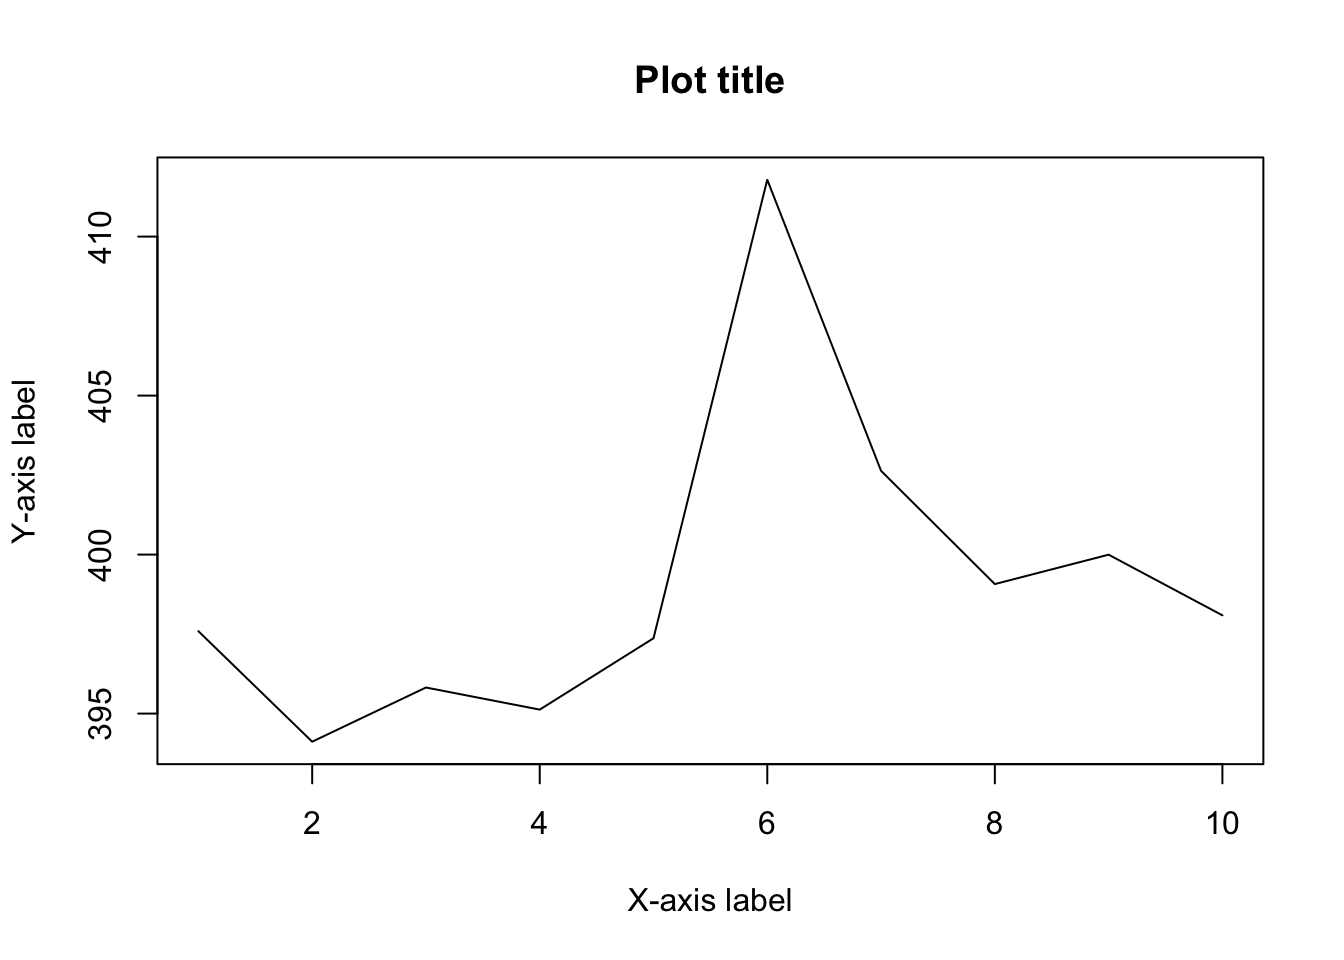
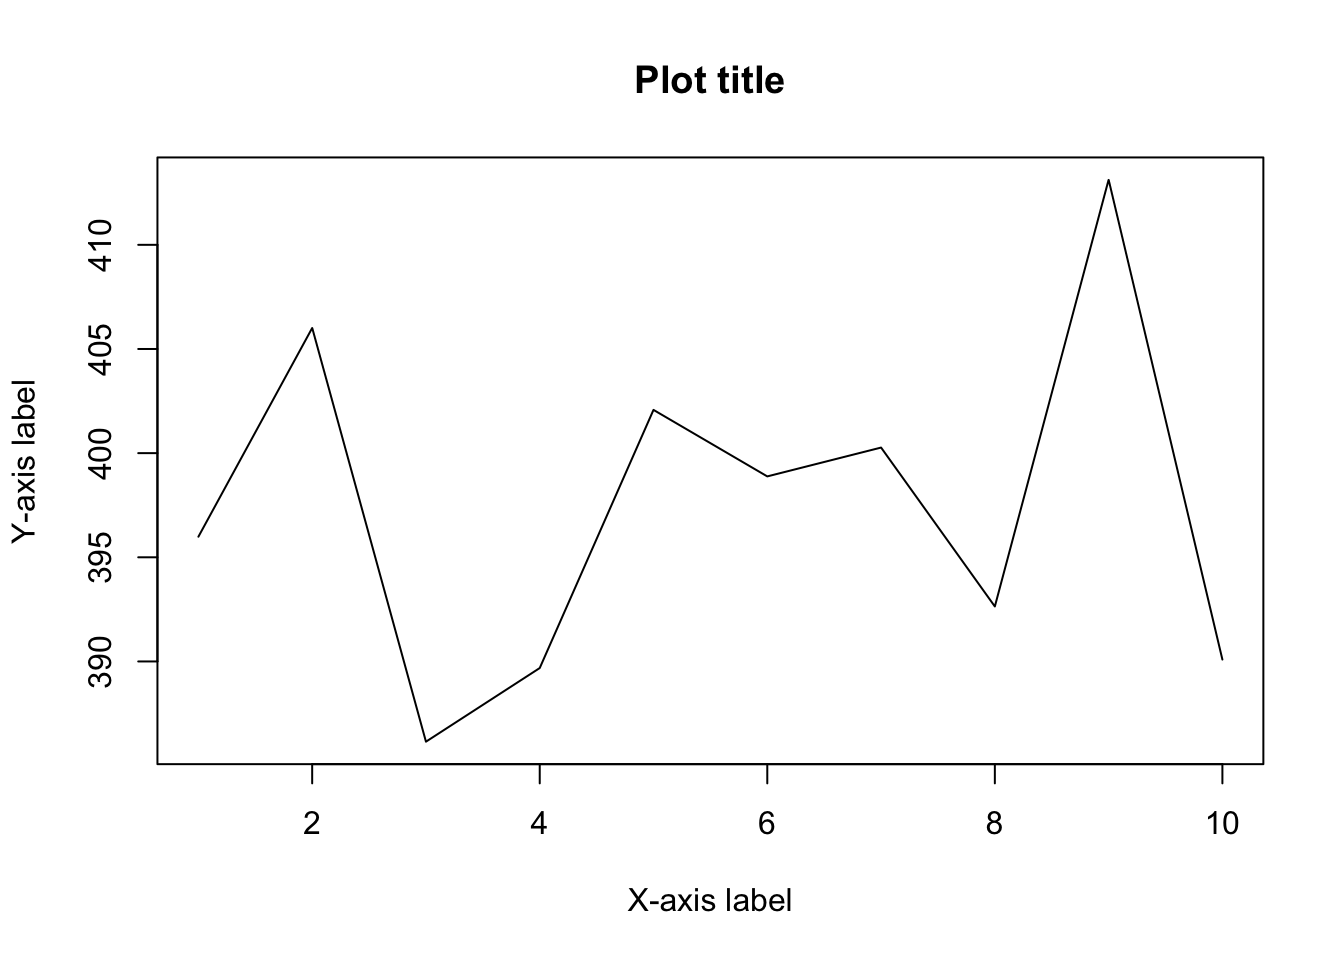
edit posts

diff --git a/content/blog/how-to-import-an-excel-file-in-rstudio.html b/content/blog/how-to-import-an-excel-file-in-rstudio.html
@@ -38,7 +38,7 @@ output:
 <div id="introduction" class="section level1">
 <h1>Introduction</h1>
 <p>As we have seen in this article on <a href="/blog/how-to-install-r-and-rstudio/">how to install R and RStudio</a>, R is useful for many kind of computational tasks and statistical analyses. However, it would not be so powerful and useful without the possibility to import datasets into R. As you will most likely use R with your own data, being able to import it into R is crucial for any user.</p>
-<p>In this article I present two different ways to import an Excel file; (i) via the text editor and (ii) in a more “user-friendly” way. I also discuss about the main advantages and inconvenients of both methods. Note that:</p>
+<p>In this article I present two different ways to import an Excel file; (i) via the text editor and (ii) in a more “user-friendly” way. I also discuss about the main advantages and disadvantages of both methods. Note that:</p>
 <ul>
 <li>How to import a dataset often depends on the format of the file (Excel, CSV, text, SPSS, Stata, etc.). I focus here only on Excel files as it is the most common type of file for a dataset</li>
 <li>There are several other ways to import an Excel file (probably even some I am not aware of), but I present the two most simple yet robust ways to import such files</li>
@@ -117,7 +117,7 @@ output:
 </div>
 <div id="import-your-dataset" class="section level1">
 <h1>Import your dataset</h1>
-<p>Now that you have tranformed your Excel file into a CSV file and you have specified the folder containing your data by setting the working directory, you are now ready to actually import your dataset. Remind that there are a two methods to import a file:</p>
+<p>Now that you have transformed your Excel file into a CSV file and you have specified the folder containing your data by setting the working directory, you are now ready to actually import your dataset. Remind that there are a two methods to import a file:</p>
 <ol style="list-style-type: decimal">
 <li>in a user-friendly way</li>
 <li>via the text editor (see also below why it is my preferred option)</li>
@@ -130,7 +130,7 @@ output:
 <p>There are a few things we need to look for in order to properly import our dataset:</p>
 <ul>
 <li>Are the variables names present?</li>
-<li>How are the values seperated? Comma, semicolon, whitespace, tab?</li>
+<li>How are the values separated? Comma, semicolon, whitespace, tab?</li>
 <li>Is the decimal a point or a comma?</li>
 <li>How are specified missing values? Empty cells, NA, null, O, other?</li>
 </ul>
@@ -148,7 +148,7 @@ output:
 </div>
 <p>From this window, you can have a preview of your data, and more importantly, check whether your data seems to have been imported correctly. If your data have been correctly imported, you can click on “Import”. If this is not the case, you can change the import options at the bottom of the window (below the data preview) corresponding to the information you gathered when looking at the raw data. Below, the import options you will most likely use:</p>
 <ul>
-<li>Name: set the name of your data set (default is the name of the file). Avoid special characters and long names (as you will have to type the name of your dataset several times). I personnaly rename my datasets with a generic name such as “dat”, others use “df” (for dataframe), “data”, or even “my_data”. You could use more explicit names such as “tennis_data” if you are using data on tennis matches for example. However, the main drawback with using specific names for datasets is that if, for instance, you want to reuse the code you created while analysing tennis data on other datasets, you will need to edit your code by replacing all occurences of “tennis_data” by the name of your new dataset</li>
+<li>Name: set the name of your data set (default is the name of the file). Avoid special characters and long names (as you will have to type the name of your dataset several times). I personally rename my datasets with a generic name such as “dat”, others use “df” (for dataframe), “data”, or even “my_data”. You could use more explicit names such as “tennis_data” if you are using data on tennis matches for example. However, the main drawback with using specific names for datasets is that if, for instance, you want to reuse the code you created while analysing tennis data on other datasets, you will need to edit your code by replacing all occurrences of “tennis_data” by the name of your new dataset</li>
 <li>Skip: specify the number of top rows you want to skip (default is 0). Most of the time, 0 is fine. However, if your file contains some blank rows at the top (or information you want to disregard), set the number of rows to skip</li>
 <li>First Row as Names: specify whether the variables names are present or not (default is that variables names are present)</li>
 <li>Delimiter: the character which separate the values. From our raw data above, you can see that the delimiter is a comma (“,”). Change it to semicolon if your values are separated by “;”</li>
@@ -159,7 +159,7 @@ output:
 </div>
 <div id="via-the-text-editor-1" class="section level2">
 <h2>Via the text editor</h2>
-<p>Similarily to setting the working directory, I also recommend using the text editor instead of the user-friendly method for the simple reason that you can save your import options when using the text editor (and not when using the user-friendly method). Saving your import options in your script (thanks to a line of code) allows you to quickly import your dataset the exact same way without having to repeat all the necessary steps everytime you import your dataset. The command to import a CSV file is <code>read.csv()</code> (or <code>read.csv2()</code> which is equivalent but with other default import options). Here is an example with the same file than in the user-friendly method:</p>
+<p>Similarly to setting the working directory, I also recommend using the text editor instead of the user-friendly method for the simple reason that you can save your import options when using the text editor (and not when using the user-friendly method). Saving your import options in your script (thanks to a line of code) allows you to quickly import your dataset the exact same way without having to repeat all the necessary steps every time you import your dataset. The command to import a CSV file is <code>read.csv()</code> (or <code>read.csv2()</code> which is equivalent but with other default import options). Here is an example with the same file than in the user-friendly method:</p>
 <pre class="r"><code>dat &lt;- read.csv(
   file = &quot;data.csv&quot;,
   header = TRUE,

diff --git a/public/blog/how-to-import-an-excel-file-in-rstudio/index.html b/public/blog/how-to-import-an-excel-file-in-rstudio/index.html
@@ -175,7 +175,7 @@
 <div id="introduction" class="section level1">
 <h1>Introduction</h1>
 <p>As we have seen in this article on <a href="/blog/how-to-install-r-and-rstudio/">how to install R and RStudio</a>, R is useful for many kind of computational tasks and statistical analyses. However, it would not be so powerful and useful without the possibility to import datasets into R. As you will most likely use R with your own data, being able to import it into R is crucial for any user.</p>
-<p>In this article I present two different ways to import an Excel file; (i) via the text editor and (ii) in a more “user-friendly” way. I also discuss about the main advantages and inconvenients of both methods. Note that:</p>
+<p>In this article I present two different ways to import an Excel file; (i) via the text editor and (ii) in a more “user-friendly” way. I also discuss about the main advantages and disadvantages of both methods. Note that:</p>
 <ul>
 <li>How to import a dataset often depends on the format of the file (Excel, CSV, text, SPSS, Stata, etc.). I focus here only on Excel files as it is the most common type of file for a dataset</li>
 <li>There are several other ways to import an Excel file (probably even some I am not aware of), but I present the two most simple yet robust ways to import such files</li>
@@ -254,7 +254,7 @@
 </div>
 <div id="import-your-dataset" class="section level1">
 <h1>Import your dataset</h1>
-<p>Now that you have tranformed your Excel file into a CSV file and you have specified the folder containing your data by setting the working directory, you are now ready to actually import your dataset. Remind that there are a two methods to import a file:</p>
+<p>Now that you have transformed your Excel file into a CSV file and you have specified the folder containing your data by setting the working directory, you are now ready to actually import your dataset. Remind that there are a two methods to import a file:</p>
 <ol style="list-style-type: decimal">
 <li>in a user-friendly way</li>
 <li>via the text editor (see also below why it is my preferred option)</li>
@@ -267,7 +267,7 @@
 <p>There are a few things we need to look for in order to properly import our dataset:</p>
 <ul>
 <li>Are the variables names present?</li>
-<li>How are the values seperated? Comma, semicolon, whitespace, tab?</li>
+<li>How are the values separated? Comma, semicolon, whitespace, tab?</li>
 <li>Is the decimal a point or a comma?</li>
 <li>How are specified missing values? Empty cells, NA, null, O, other?</li>
 </ul>
@@ -285,7 +285,7 @@
 </div>
 <p>From this window, you can have a preview of your data, and more importantly, check whether your data seems to have been imported correctly. If your data have been correctly imported, you can click on “Import”. If this is not the case, you can change the import options at the bottom of the window (below the data preview) corresponding to the information you gathered when looking at the raw data. Below, the import options you will most likely use:</p>
 <ul>
-<li>Name: set the name of your data set (default is the name of the file). Avoid special characters and long names (as you will have to type the name of your dataset several times). I personnaly rename my datasets with a generic name such as “dat”, others use “df” (for dataframe), “data”, or even “my_data”. You could use more explicit names such as “tennis_data” if you are using data on tennis matches for example. However, the main drawback with using specific names for datasets is that if, for instance, you want to reuse the code you created while analysing tennis data on other datasets, you will need to edit your code by replacing all occurences of “tennis_data” by the name of your new dataset</li>
+<li>Name: set the name of your data set (default is the name of the file). Avoid special characters and long names (as you will have to type the name of your dataset several times). I personally rename my datasets with a generic name such as “dat”, others use “df” (for dataframe), “data”, or even “my_data”. You could use more explicit names such as “tennis_data” if you are using data on tennis matches for example. However, the main drawback with using specific names for datasets is that if, for instance, you want to reuse the code you created while analysing tennis data on other datasets, you will need to edit your code by replacing all occurrences of “tennis_data” by the name of your new dataset</li>
 <li>Skip: specify the number of top rows you want to skip (default is 0). Most of the time, 0 is fine. However, if your file contains some blank rows at the top (or information you want to disregard), set the number of rows to skip</li>
 <li>First Row as Names: specify whether the variables names are present or not (default is that variables names are present)</li>
 <li>Delimiter: the character which separate the values. From our raw data above, you can see that the delimiter is a comma (“,”). Change it to semicolon if your values are separated by “;”</li>
@@ -296,7 +296,7 @@
 </div>
 <div id="via-the-text-editor-1" class="section level2">
 <h2>Via the text editor</h2>
-<p>Similarily to setting the working directory, I also recommend using the text editor instead of the user-friendly method for the simple reason that you can save your import options when using the text editor (and not when using the user-friendly method). Saving your import options in your script (thanks to a line of code) allows you to quickly import your dataset the exact same way without having to repeat all the necessary steps everytime you import your dataset. The command to import a CSV file is <code>read.csv()</code> (or <code>read.csv2()</code> which is equivalent but with other default import options). Here is an example with the same file than in the user-friendly method:</p>
+<p>Similarly to setting the working directory, I also recommend using the text editor instead of the user-friendly method for the simple reason that you can save your import options when using the text editor (and not when using the user-friendly method). Saving your import options in your script (thanks to a line of code) allows you to quickly import your dataset the exact same way without having to repeat all the necessary steps every time you import your dataset. The command to import a CSV file is <code>read.csv()</code> (or <code>read.csv2()</code> which is equivalent but with other default import options). Here is an example with the same file than in the user-friendly method:</p>
 <pre class="r"><code>dat &lt;- read.csv(
   file = &quot;data.csv&quot;,
   header = TRUE,

diff --git a/content/blog/how-to-install-r-and-rstudio.html b/content/blog/how-to-install-r-and-rstudio.html
@@ -90,7 +90,7 @@ output:
 <img src="/blog/how-to-install-r-and-rstudio_files/example%20of%20code%20executed%20in%20RStudio.png" alt="Example of code executed in RStudio" />
 <p class="caption">Example of code executed in RStudio</p>
 </div>
-<p>The text editor and the console are the panes you will use most ofen. The two other panes (the blue and green panes introduced earlier) will however still be very useful when using RStudio.</p>
+<p>The text editor and the console are the panes you will use most often. The two other panes (the blue and green panes introduced earlier) will however still be very useful when using RStudio.</p>
 <p>The environment (green pane) displays all values stored by RStudio. For example, if you type and execute the code <code>a = 1</code>, RStudio will store the value <code>1</code> for <code>a</code>, as shown in the screenshot below:</p>
 <div class="figure">
 <img src="/blog/how-to-install-r-and-rstudio_files/environment%20pane%20in%20RStudio2.png" alt="Environment pane in RStudio" />
@@ -99,7 +99,7 @@ output:
 <p>This means that you can now perform any computations with <code>a</code>, such that if you execute <code>a + 1</code>, RStudio will render <code>2</code> in the console. In this pane you can also see a tab with a history of the code executed and a button to import a dataset (more on <a href="/blog/how-to-import-an-excel-file-in-rstudio/">importing a dataset in RStudio</a>).</p>
 <p>The last pane (blue) is where you will find everything else such as your files, the plots, the packages, the help documentation, etc. I discuss about the Files tab in more details <a href="/blog/how-to-import-an-excel-file-in-rstudio/">here</a> so let’s discuss about the other tabs:</p>
 <ul>
-<li>Plot: where you will see the rendered plots. For instance, run <code>plot(1:10)</code> and you should see it in this tab. If you plotted more than one plots, you can naviguate between them by clicking on the arrows. You can open the plot in a new window by clicking on Zoom and export your plot by clicking on Export. Those buttons are located just under the Plot tab (see figure below)</li>
+<li>Plot: where you will see the rendered plots. For instance, run <code>plot(1:10)</code> and you should see it in this tab. If you plotted more than one plots, you can navigate between them by clicking on the arrows. You can open the plot in a new window by clicking on Zoom and export your plot by clicking on Export. Those buttons are located just under the Plot tab (see figure below)</li>
 <li>Packages: where you see all your installed packages. Only fundamental functionalities come with R. Everything else must be installed from packages. Remind that R is open source; everyone can write code and publish it as a package. You are then able to use this package (and all functions built inside this package) for free. Some packages are installed by default, all others must be installed by running <code>install.packages(&quot;name of the package&quot;)</code> (do not forget <code>&quot;&quot;</code> around the name of the package!). Once the package is installed, you must load the package and only after it has been loaded you can use all the functions it contains. To load a package, run <code>library(name of the package)</code> (this time <code>&quot;&quot;</code> around the name of the package are optional, but can still be used if you wish). You also have the possibility to install and load packages via the buttons under the Packages tab. For this, click on the button Install under Packages, type the name of the package you want to install and then click on Install. You will see that the code appears in the console. To load the package, find the package you want to load in the Packages window (you can use the search box), then click on the checkbox next to the name of the package. Again, the code is run in the console. See the figures below if needed. Note that you will need to install packages <strong>only once</strong>,<a href="#fn1" class="footnote-ref" id="fnref1"><sup>1</sup></a> but load packages <strong>each time</strong> you open RStudio. Furthermore, note that an internet connection is required to install a package, while it is not required to load a package</li>
 <li>Help: documentation about all functions written for R. To access the help of a function, run <code>help(&quot;name of the function&quot;)</code> or simply <code>?name of the function</code>. For example, to see the help about the mean function, run <code>?mean</code>. You can also press F1 while having your cursor on a function</li>
 </ul>
@@ -186,10 +186,10 @@ my_mat2</code></pre>
 <pre class="r"><code>my_vec &lt;- rnorm(10, mean = 400, sd = 10)
 # Display only the first 5 values:
 head(my_vec, 5)</code></pre>
-<pre><code>## [1] 397.5906 394.1163 395.8203 395.1248 397.3691</code></pre>
+<pre><code>## [1] 395.9883 406.0063 386.1482 389.6845 402.0766</code></pre>
 <pre class="r"><code># Display only the last 5 values:
 tail(my_vec, 5)</code></pre>
-<pre><code>## [1] 411.7824 402.6334 399.0726 399.9974 398.0901</code></pre>
+<pre><code>## [1] 398.8831 400.2683 392.6393 413.1163 390.0913</code></pre>
 <p>You will have different values than mines due to the fact that they are randomly generated. If you want to make sure to have always the same random values, use <code>set.seed()</code> (with any numeric inside the brackets). For instance, with the following code, you should have the exact same values, no matter where and when you run it:</p>
 <pre class="r"><code>set.seed(42)
 rnorm(3, mean = 10, sd = 2)</code></pre>

diff --git a/public/blog/how-to-install-r-and-rstudio/index.html b/public/blog/how-to-install-r-and-rstudio/index.html
@@ -227,7 +227,7 @@
 <img src="/blog/how-to-install-r-and-rstudio_files/example%20of%20code%20executed%20in%20RStudio.png" alt="Example of code executed in RStudio" />
 <p class="caption">Example of code executed in RStudio</p>
 </div>
-<p>The text editor and the console are the panes you will use most ofen. The two other panes (the blue and green panes introduced earlier) will however still be very useful when using RStudio.</p>
+<p>The text editor and the console are the panes you will use most often. The two other panes (the blue and green panes introduced earlier) will however still be very useful when using RStudio.</p>
 <p>The environment (green pane) displays all values stored by RStudio. For example, if you type and execute the code <code>a = 1</code>, RStudio will store the value <code>1</code> for <code>a</code>, as shown in the screenshot below:</p>
 <div class="figure">
 <img src="/blog/how-to-install-r-and-rstudio_files/environment%20pane%20in%20RStudio2.png" alt="Environment pane in RStudio" />
@@ -236,7 +236,7 @@
 <p>This means that you can now perform any computations with <code>a</code>, such that if you execute <code>a + 1</code>, RStudio will render <code>2</code> in the console. In this pane you can also see a tab with a history of the code executed and a button to import a dataset (more on <a href="/blog/how-to-import-an-excel-file-in-rstudio/">importing a dataset in RStudio</a>).</p>
 <p>The last pane (blue) is where you will find everything else such as your files, the plots, the packages, the help documentation, etc. I discuss about the Files tab in more details <a href="/blog/how-to-import-an-excel-file-in-rstudio/">here</a> so let’s discuss about the other tabs:</p>
 <ul>
-<li>Plot: where you will see the rendered plots. For instance, run <code>plot(1:10)</code> and you should see it in this tab. If you plotted more than one plots, you can naviguate between them by clicking on the arrows. You can open the plot in a new window by clicking on Zoom and export your plot by clicking on Export. Those buttons are located just under the Plot tab (see figure below)</li>
+<li>Plot: where you will see the rendered plots. For instance, run <code>plot(1:10)</code> and you should see it in this tab. If you plotted more than one plots, you can navigate between them by clicking on the arrows. You can open the plot in a new window by clicking on Zoom and export your plot by clicking on Export. Those buttons are located just under the Plot tab (see figure below)</li>
 <li>Packages: where you see all your installed packages. Only fundamental functionalities come with R. Everything else must be installed from packages. Remind that R is open source; everyone can write code and publish it as a package. You are then able to use this package (and all functions built inside this package) for free. Some packages are installed by default, all others must be installed by running <code>install.packages(&quot;name of the package&quot;)</code> (do not forget <code>&quot;&quot;</code> around the name of the package!). Once the package is installed, you must load the package and only after it has been loaded you can use all the functions it contains. To load a package, run <code>library(name of the package)</code> (this time <code>&quot;&quot;</code> around the name of the package are optional, but can still be used if you wish). You also have the possibility to install and load packages via the buttons under the Packages tab. For this, click on the button Install under Packages, type the name of the package you want to install and then click on Install. You will see that the code appears in the console. To load the package, find the package you want to load in the Packages window (you can use the search box), then click on the checkbox next to the name of the package. Again, the code is run in the console. See the figures below if needed. Note that you will need to install packages <strong>only once</strong>,<a href="#fn1" class="footnote-ref" id="fnref1"><sup>1</sup></a> but load packages <strong>each time</strong> you open RStudio. Furthermore, note that an internet connection is required to install a package, while it is not required to load a package</li>
 <li>Help: documentation about all functions written for R. To access the help of a function, run <code>help(&quot;name of the function&quot;)</code> or simply <code>?name of the function</code>. For example, to see the help about the mean function, run <code>?mean</code>. You can also press F1 while having your cursor on a function</li>
 </ul>
@@ -323,10 +323,10 @@ my_mat2</code></pre>
 <pre class="r"><code>my_vec &lt;- rnorm(10, mean = 400, sd = 10)
 # Display only the first 5 values:
 head(my_vec, 5)</code></pre>
-<pre><code>## [1] 397.5906 394.1163 395.8203 395.1248 397.3691</code></pre>
+<pre><code>## [1] 395.9883 406.0063 386.1482 389.6845 402.0766</code></pre>
 <pre class="r"><code># Display only the last 5 values:
 tail(my_vec, 5)</code></pre>
-<pre><code>## [1] 411.7824 402.6334 399.0726 399.9974 398.0901</code></pre>
+<pre><code>## [1] 398.8831 400.2683 392.6393 413.1163 390.0913</code></pre>
 <p>You will have different values than mines due to the fact that they are randomly generated. If you want to make sure to have always the same random values, use <code>set.seed()</code> (with any numeric inside the brackets). For instance, with the following code, you should have the exact same values, no matter where and when you run it:</p>
 <pre class="r"><code>set.seed(42)
 rnorm(3, mean = 10, sd = 2)</code></pre>

diff --git a/public/about/index.html b/public/about/index.html
@@ -115,7 +115,7 @@
                     <div class="markdown">
                         
     <p>Hello, my name is <a href="https://www.antoinesoetewey.com/">Antoine Soetewey</a>. I am a PhD student in statistics at UCLouvain (Belgium). My research interests focus on survival analysis and bio-statistical procedures applied to cancer patients.</p>
-<p>In parallel with my doctoral thesis, I am teaching assistant for several courses in statistics and probability at bachelor and master’s level. I also provide trainings and workshops in statistics and R in a belgian consulting company.</p>
+<p>In parallel with my doctoral thesis, I am teaching assistant for several courses in statistics and probability at bachelor and master’s level. I also provide trainings and workshops in statistics and R in a Belgian consulting company.</p>
 <p>For more information about myself please visit <a href="https://www.antoinesoetewey.com/">www.antoinesoetewey.com</a>. All opinions and views are my own and do not represent my employer.</p>
 <p>If you need help in performing statistical data analyses for your thesis or academic/work related projects, do not hesitate to <a href="/contact/">contact me</a>.</p>
 
